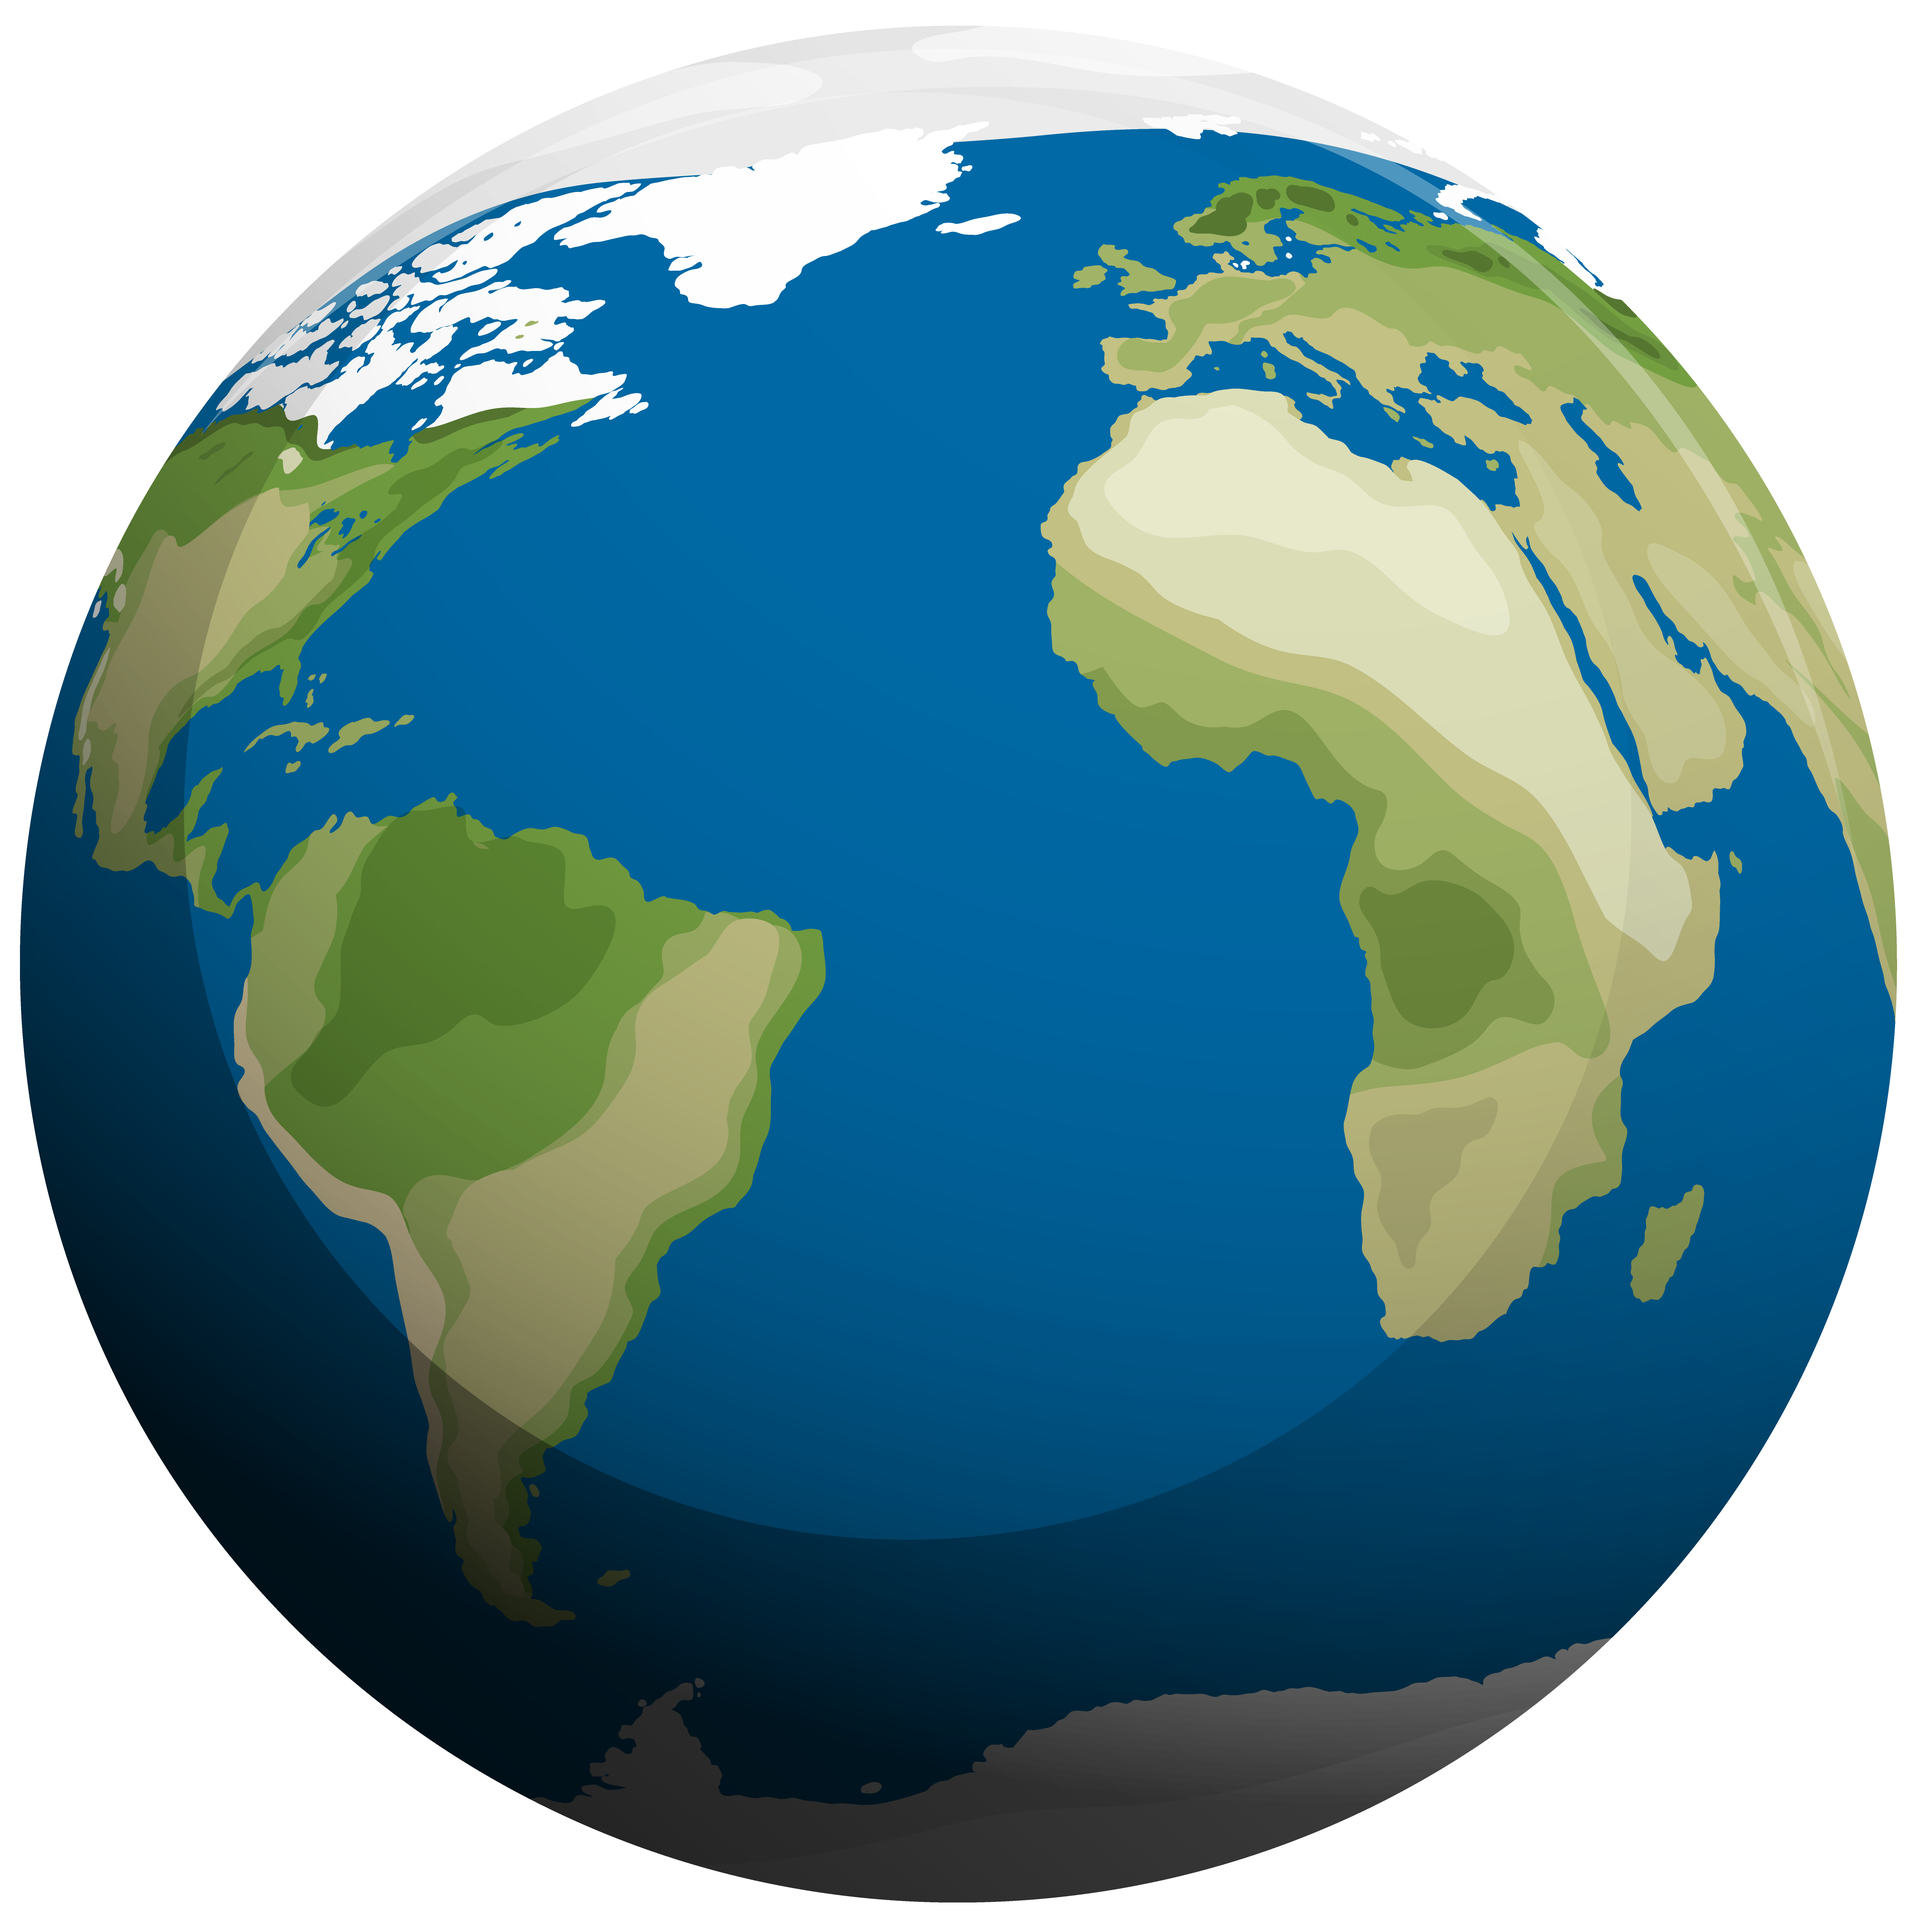
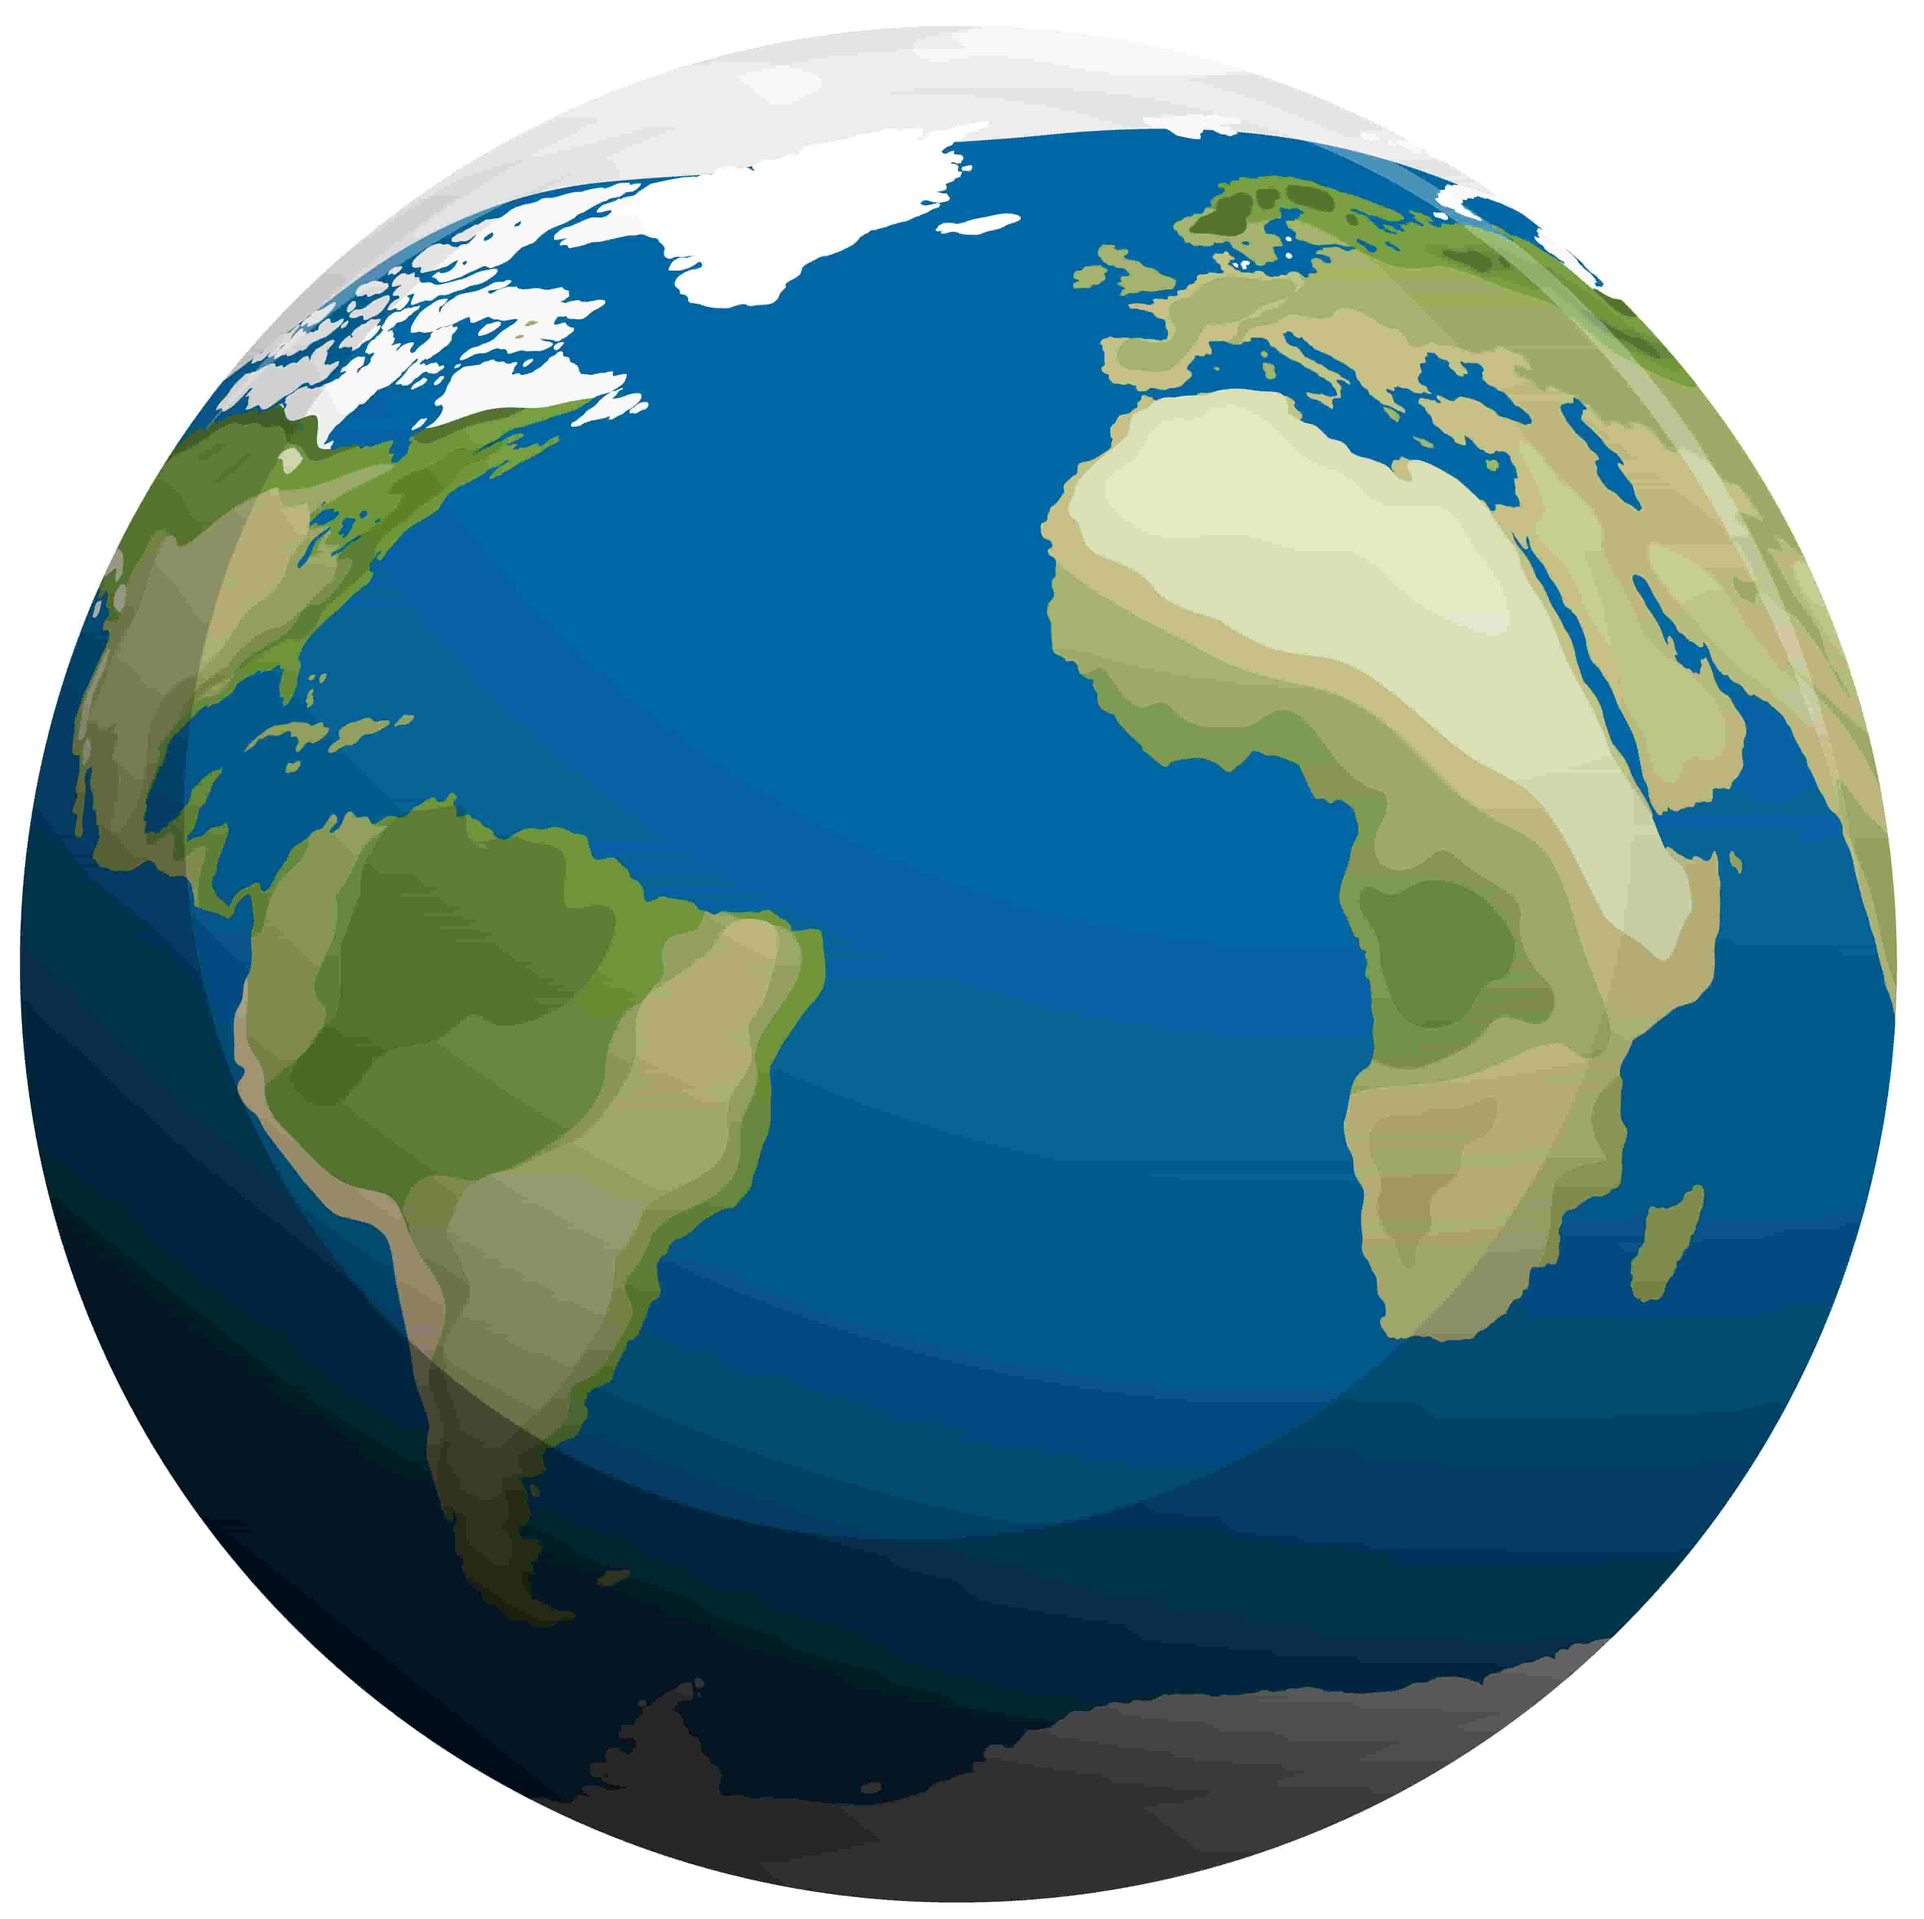
optimized images

diff --git a/src/Components/ResumeAndContacts.js b/src/Components/ResumeAndContacts.js
@@ -1,6 +1,28 @@
 import RESUMEFILE from './Assets/MyResume.pdf';
+import { useEffect } from 'react';
 
 const ResumeAndContacts = () => {
+
+    useEffect( () => {
+        const slideUp = document.querySelectorAll(".slideUp");
+
+        const observer = new IntersectionObserver(
+            entries => {
+                entries.forEach(entry => {
+                    entry.target.classList.toggle("show",entry.isIntersecting);
+                    if (entry.isIntersecting) observer.unobserve(entry.target);
+                })
+            },
+            {
+                threshold:0,
+            }
+        )
+
+        slideUp.forEach(slideUp => {
+            observer.observe(slideUp);
+        })
+    },[])
+
     return (
         <div className="min-h-screen max-h-screen inset-0 w-full snap-always snap-start bg-slate-900 flex flex-col" id="Resume">
 
@@ -9,7 +31,7 @@ const ResumeAndContacts = () => {
                     <div className='w-10/12 mx-auto py-4 sm:py-8 text-xs sm:text-base font-medium'>
                     As a M.E.R.N developer (MongoDB, Express.js, React, Node.js), I have already gained valuable experience through several web development projects. I am passionate about crafting dynamic and user-centric web applications, and I have successfully translated innovative ideas into functional and visually appealing digital experiences.
                     </div>
-                    <div className='flex flex-col sm:flex-row my-2 2xl:my-4 bg-slate-50 w-4/6 h-fit p-4 2xl:p-8 mx-auto rounded-3xl shadow-md'>{/*Resume Card */}
+                    <div className='slideUp flex flex-col sm:flex-row my-2 2xl:my-4 bg-slate-50 w-4/6 h-fit p-4 2xl:p-8 mx-auto rounded-3xl shadow-md'>{/*Resume Card */}
                         <img src={require('./Assets/Resume.png')} alt="Resume" className='w-12 mx-auto 2xl:mx-0 2xl:w-28' /> {/* Resume SVG Logo */}
                         <div className='mt-auto mx-auto 2xl:mx-0 p-3 text-sm 2xl:text-lg font-medium'>
                             MyResume.PDF

diff --git a/src/index.css b/src/index.css
@@ -23,6 +23,7 @@
 .HomePageCover
 {
   background-image: url('./Components/Assets/bg-2.jpg');
+  background-color: #333;
   background-size: cover;
   background-repeat: no-repeat;
 }
@@ -34,12 +35,12 @@
   background-size: cover;
 }
 
-#Projects
+/* #Projects
 {
   background-image: url(./Components/Assets/T2-C.png);
   background-repeat: no-repeat;
   background-size: cover;
-}
+} */
 
 /* #Skills
 {
@@ -81,4 +82,25 @@
   transform: translateX(0);
   opacity: 1;
   transition-delay: 75ms;
+}
+
+
+
+
+
+
+
+
+body {
+  animation: fadeInAnimation ease 3s;
+  animation-iteration-count: 1;
+  animation-fill-mode: forwards;
+}
+@keyframes fadeInAnimation {
+  0% {
+      opacity: 0;
+  }
+  100% {
+      opacity: 1;
+  }
 }
